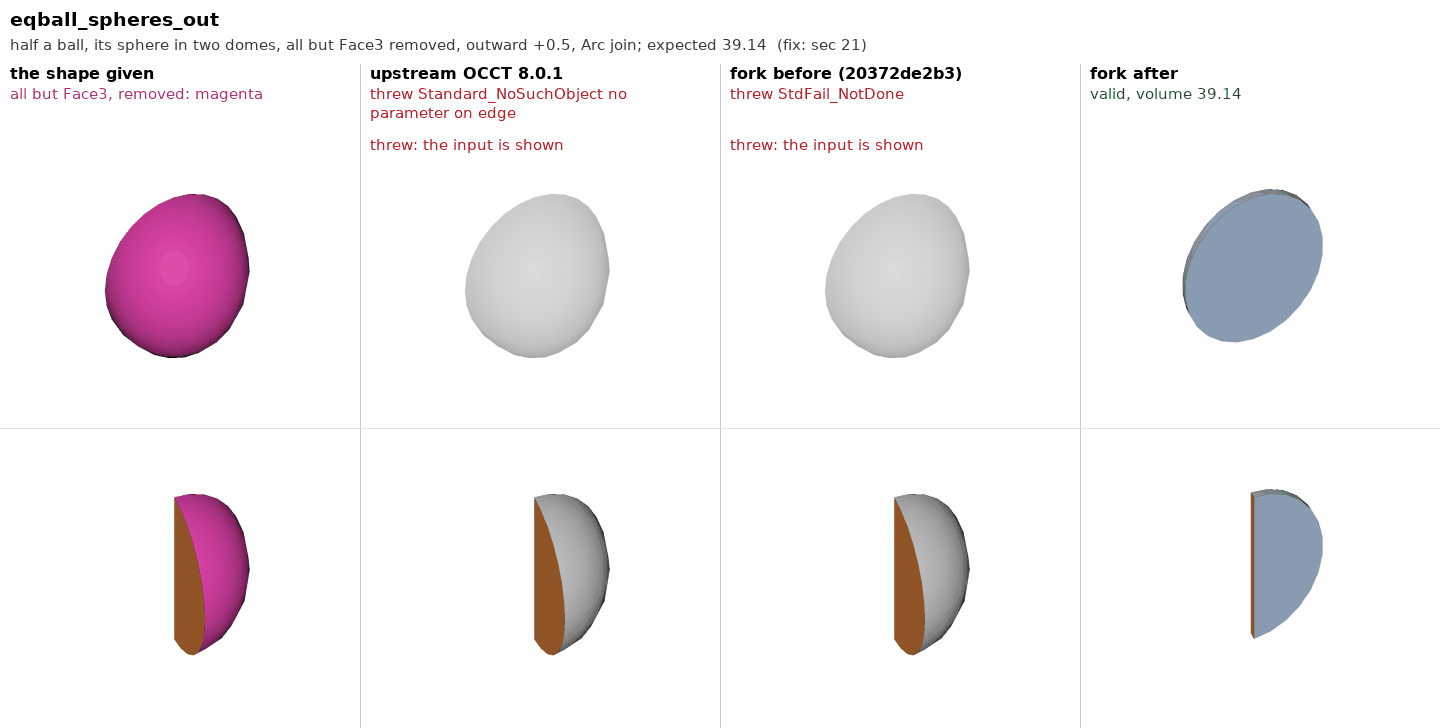
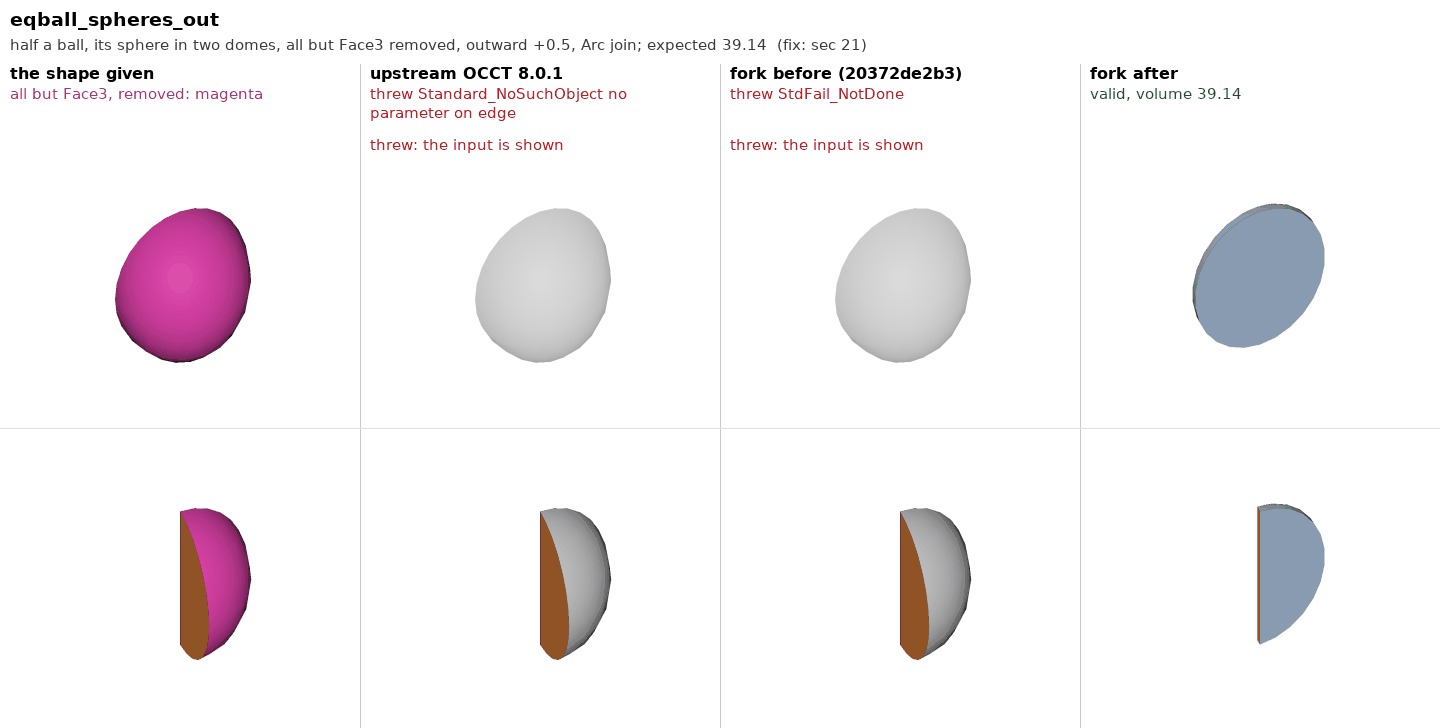
Tests: thickness pictures and write-up of sec 22
models/Thickness.md "Sec 22": the hand value of the 240 degree wedge
inward; the rest of the ball (631700cbf8); a sphere face on the meridians
of another axis turned onto it (c747dd8371); an edge in pieces joined
first (addc5e58fd), there since the chain was ported -- 361 runs of 824
over twelve shapes with a vertex at the middle of an edge; a result that
runs off refused (50e7977409); and what is found but not fixed: the half
ball with one of its two sphere faces removed, refused every way, waits
for a rule for the wall at a tangent edge on a sphere.

Twelve pictures in stages s22a, s22b and s22c: 146 pictured, upstream
right on 39 (three of the new: the box and the cylinder with a vertex on
an edge). Other pictures of sec 21 drawn again: their after column comes
through the joined edges now, the same volumes.

Claude-Session: https://claude.ai/code/session_01RRwvFxBuXePWegBsRhSaqG

diff --git a/thickness/pictures/cases.py b/thickness/pictures/cases.py
@@ -36,6 +36,9 @@ STAGES = {
     "s21a": ("76691d6f87", "21"),
     "s21b": ("b45cff22c5", "21"),
     "s21c": ("20372de2b3", "21"),
+    "s22a": ("1e6f5a464c", "22"),
+    "s22b": ("631700cbf8", "22"),
+    "s22c": ("c747dd8371", "22"),
 }
 # Upstream: the eleven files the fix chain touches, at the fork's base.
 UPSTREAM = ("91be8c4c71", [
@@ -91,6 +94,24 @@ def _halfball(cut=None):
     else:
         return b
     return b.generalFuse([e])[0].Solids[0]
+
+
+def _split_at(shape, i):
+    # The shape with a vertex at the middle of its edge i (0-based).
+    e = shape.Edges[i]
+    return shape.generalFuse([Part.Vertex(e.valueAt((e.FirstParameter + e.LastParameter) / 2))])[0].Solids[0]
+
+
+def _axis_wedge(ang):
+    # A ball made on an axis through the middle of the wedge it is cut to: its
+    # face has a seam and a pole inside. Face1 is the sphere.
+    mid = math.radians(ang / 2.0)
+    m = V(math.cos(mid), math.sin(mid), 0)
+    gap = Part.makeCylinder(10, 20, V(0, 0, -10), V(0, 0, 1), 360 - ang)
+    gap.rotate(V(), V(0, 0, 1), ang)
+    w = Part.makeSphere(5, V(), m).cut(gap).Solids[0]
+    assert w.Faces[0].Surface.__class__.__name__ == "Sphere"
+    return w
 
 
 def _dome2(line=False):
@@ -149,6 +170,14 @@ SHAPES = {
     "dome2f": lambda: _dome2(True),
     "halfball1": lambda: _halfball().removeSplitter(),
     "cutball": lambda: Part.makeSphere(5).cut(Part.makeBox(20, 20, 20, V(-10, -20, -10))),
+    "ball270": lambda: Part.makeSphere(5, V(), V(0, 0, 1), -90, 90, 270),
+    "ball240": lambda: Part.makeSphere(5, V(), V(0, 0, 1), -90, 90, 240),
+    "ball150": lambda: Part.makeSphere(5, V(), V(0, 0, 1), -90, 90, 150),
+    "boxsplit": lambda: _split_at(Part.makeBox(10, 8, 6), 0),
+    "cylseam": lambda: _split_at(Part.makeCylinder(4, 6), 1),
+    "ball270split": lambda: Part.makeSphere(5, V(), V(0, 0, 1), -90, 90, 270).generalFuse(
+        [Part.Vertex(V(5, 0, 0))])[0].Solids[0],
+    "axiswedge270": lambda: _axis_wedge(270),
 }
 # name: (stage, shape, face or list of faces removed, value, inter, join, reference volume)
 CASES = {
@@ -286,6 +315,18 @@ CASES = {
     "luneball_flat_join_in": ("s21c", "luneball", 3, -0.5, False, 2, 89.0272),
     "eqball_spheres_out": ("s21c", "eqball", [1, 2], +0.5, False, 0, 39.1390),
     "eqball_spheres_join_out": ("s21c", "eqball", [1, 2], +0.5, False, 2, 39.1390),
+    "ball270_sphere_out": ("s22a", "ball270", 1, +0.5, False, 0, 36.6474),
+    "ball270_sphere_join_out": ("s22a", "ball270", 1, +0.5, False, 2, 36.6474),
+    "ball240_sphere_join_out": ("s22a", "ball240", 1, +0.5, False, 2, 37.6996),
+    "ball150_sphere_out": ("s22a", "ball150", 1, +0.5, False, 0, 39.7919),
+    "dome2f_flat_join_out": ("s22b", "dome2f", 2, +0.5, False, 2, 113.0909),
+    "dome2f_flat_join_in": ("s22b", "dome2f", 2, -0.5, False, 2, 89.0272),
+    "boxsplit_side_out": ("s22c", "boxsplit", 1, +0.5, False, 0, 177.6136),
+    "boxsplit_side_in": ("s22c", "boxsplit", 1, -0.5, False, 0, 147.5),
+    "cylseam_top_out": ("s22c", "cylseam", 2, +0.5, False, 0, 110.4400),
+    "ball270split_sphere_join_in": ("s22c", "ball270split", 1, -0.5, False, 2, 41.6307),
+    "axiswedge270_sphere_join_in": ("s22c", "axiswedge270", 1, -0.5, False, 2, 41.6307),
+    "axiswedge270_sphere_out": ("s22c", "axiswedge270", 1, +0.5, False, 0, 36.6474),
 }
 # Cases whose right result is more than one shell: the holed cone's top, its
 # cavity sealed below the removed face (a skin and a void).

diff --git a/thickness/pictures/mkpage.py b/thickness/pictures/mkpage.py
@@ -43,6 +43,7 @@ SUMMARY = {
     19: "Three quarters of a dome (the axis turn stopped at half a turn; the old pole's edge kept two meridians apart; a meridian's piece past the pole kept a pcurve off the sphere); the piece of sphere where three tubes meet at a pole; a face extended to the far crossing; and the sphere itself removed, its wall built on a turned twin of the removed face. At twice the thickness one case had been a valid solid on the wrong side.",
     20: "Half a ball cut through both its poles: its sphere is cut in two first, along the equator where it stays and along a meridian where it is removed. And shapes under a location or turned in space, which gave other results than plain: a seam checked without its location, a cone's apex left where it was, a corner arc taken from the wrong section, a whole circle of section that lost the piece its own vertex lies in.",
     21: "A dome whose rim is in two arcs was broken since the chain was ported, upstream right: the face is now walked in (u, v) with its seam, and its flat's two arcs no longer both become one half circle. The half ball with one disc, as a refine or a cut leaves it, is put on a sphere turned onto its middle, which makes it that dome; and a half ball with its sphere in two faces has them joined first.",
+    22: "A ball wedge's sphere removed outward is the rest of the ball's thick solid inward. A sphere face whose outline lies on the meridians of another axis is put on that axis: the dome with its flat in two halves, a ball wedge made on an axis through its face. And an edge cut in two by a vertex nothing else meets is joined first: since the chain was ported it broke the faces beside it, 361 runs of 824, a box among them where upstream is right.",
 }
 
 TAGLINE = "Every pictured case of the OCCT fork's thickness suite, each run three ways"

diff --git a/thickness/pictures/compose.py b/thickness/pictures/compose.py
@@ -34,7 +34,12 @@ NAMES = {"cyl": "cylinder", "ann": "cylinder with a through hole", "ell": "ellip
          "dome2": "half a sphere, its rim in two arcs",
          "dome2f": "half a sphere, its rim in two arcs and its flat in two halves",
          "halfball1": "half a ball cut through both poles, refined: one disc",
-         "cutball": "a ball cut in half by a box: a compound of one solid"}
+         "cutball": "a ball cut in half by a box: a compound of one solid",
+         "ball270": "a ball wedge of 270 degrees, pole to pole", "ball240": "a ball wedge of 240 degrees",
+         "ball150": "a ball wedge of 150 degrees", "boxsplit": "a box with a vertex on an edge",
+         "cylseam": "a cylinder with a vertex on its seam",
+         "ball270split": "the 270 degree ball wedge with a vertex on a meridian",
+         "axiswedge270": "a 270 degree wedge of a ball made on an axis through its face"}
 JOIN = {0: "Arc join", 2: "Intersection join"}
 def status(d):
     if d["ok"] and d.get("refused"):

diff --git a/thickness/models/Thickness.md b/thickness/models/Thickness.md
@@ -21,7 +21,7 @@ the only write-up.
 Where things are:
 
 - The fork's suite: `tests/fork/thickness/run_tests.py` (`FreeCADCmd
-  tests/fork/thickness/run_tests.py`; PASS 277, XFAIL 8) and its `README.md`, the
+  tests/fork/thickness/run_tests.py`; PASS 326) and its `README.md`, the
   case-by-case reference.
 - The pictures: `pictures/<case>.png` beside this page, one per case of the
   suite that a fix turned from failing to passing.
@@ -116,21 +116,23 @@ a mode: 204. From that section on the sweep is also run with every solid
 under a location and with its geometry turned in space (`SWEEP_PLACE`): the
 same 928 volumes, all right.
 
-Of the 134 pictured cases, 36 are ones upstream gets right and the fork had
+Of the 146 pictured cases, 39 are ones upstream gets right and the fork had
 broken -- the chain's casualties (sec 2, 3, part of 4, the holed
 cone's top with intersection on, sec 10, a short box's and a box's bottom
 alone, sec 11 and 12, a pocket's open shell, sec 13, the
 input left inside out, sec 14, the faces closed at a pole, sec
-16, half of a cap turned in space, its sphere removed, sec 20, and
-a dome with its rim in two arcs, sec 21).
-The other 98 fail upstream too: the fork
+16, half of a cap turned in space, its sphere removed, sec 20,
+a dome with its rim in two arcs, sec 21, and an edge in pieces, sec 22).
+The other 107 fail upstream too: the fork
 now does better than upstream there.
 
 Nothing in the suite fails. Half a ball cut through both its poles, which
 sec 19 left open, is answered in sec 20, and as a refine or a cut
 leaves it, or with its sphere in two faces, in sec 21, which marks
 eight cases known broken: ball wedges on more than half a turn with the
-sphere removed, and a dome's half flat with the Intersection join. Every run of the sweep in scope is right. Out of scope, sec 11 answers the faces left in pieces where each
+sphere removed, and a dome's half flat with the Intersection join. Sec 22
+answers the eight, and an edge in pieces, which broke the faces beside it
+in 361 of 824 runs. Every run of the sweep in scope is right. Out of scope, sec 11 answers the faces left in pieces where each
 piece is a plain plate or disc, with either join (sec 12), and sec 13
 the pieces that are pockets and bosses: every one checks by hand. The one
 refusal left in the sweep is the torus's face, and it is right: with its one
@@ -1278,7 +1280,7 @@ do. Not chased.
 ![eqball_spheres_join_out](pictures/eqball_spheres_join_out.png)
 
 **Known broken**, each marked in the suite with the volume it should give
-(8 cases):
+(8 cases, all answered in sec 22):
 
 - A ball wedge from pole to pole on more than half a turn, its sphere
   removed outward (270 and 240 degrees, both joins: three lunes, refused);
@@ -1304,7 +1306,164 @@ no circle of latitude. Its sphere removed is wrong all eight ways tried on
 each: invalid or refused, and inward with the Intersection join a valid
 solid of 264.29 for 41.6307 (263.24 for 40.5784 on 240 degrees). It is what
 turning the wedges of the list above onto their middle would make of them,
-so that is no way to answer those as it stands.
+so that is no way to answer those as it stands. (Sec 22 answers it the
+other way round: the face is turned onto the wedge's own axis.)
+
+### Sec 22: the rest of the ball, a sphere on another axis, an edge in pieces
+
+Sec 21 left eight cases known broken and three things found beside them.
+The eight are answered, and two of the three; a hand value was wrong; and
+looking at why the third of them was wrong turned up a fault far wider than
+any of them, there since the chain was ported.
+
+**A hand value** (`sweep/polehand.py`). Of the eight, the ball wedge of 240
+degrees with its sphere removed inward and the Arc join gave 40.4447 for
+39.9613. The solid was right. Inward the skin is the solid less the points
+further than the thickness from where the solid is not; for a wedge on more
+than half a turn that is the convex wedge that is missing, and the script
+took the distance to it for `hypot` of the distances to its two planes. That
+is the distance to the axis only where the planes are square, at 270
+degrees. At 240 the skin is the two slabs and a sixth of a tube round the
+axis: 39.14 + 1.31 = 40.45. The table `polehand.txt` does not change -- its
+one reflex wedge is of 270 degrees.
+
+**The rest of the ball** (`631700cbf8`, `BRepOffset_MakeOffset`,
+`MakeThickSolidOfSplit`, `MakeGapOfBall`). A ball wedge from pole to pole on
+more than half a turn, its sphere removed outward, was cut into lunes of a
+quarter turn at the most (sec 20) and refused. The wall lies in the gap
+between the flats: on 270 degrees it is the missing quarter of the sphere
+with a hole in it where the flats' offsets cross -- a face beside none of
+the three lunes, and the image of none of them. On 150 degrees with the Arc
+join the wall holds both poles and a tube round the axis, and was refused
+too.
+
+With every face of one sphere removed and the solid inside its ball, the
+thick solid outward is what lies in the ball, off the solid, within the
+thickness of the solid's other faces. That is the thick solid inward of the
+rest of the ball -- the ball less the solid -- with its faces on the sphere
+removed. The joins answer each other: outward the Arc join rounds a convex
+edge and inward a concave one, and an edge of the solid is the other kind on
+the rest of the ball. The rest is a cut of a ball made with its seam in the
+middle of the faces the solid has, so that the cut takes the seam away; the
+two volumes must make the ball's. Its images come back under the solid's
+faces and edges, the faces on the sphere under the removed face. Where the
+rest gives no valid answer, the face is cut into lunes as before.
+
+36.6474 on 270 degrees and 37.6996 on 240 with either join (a 90 and a 120
+degree wedge inward); 39.7919 and 39.8071 on 150 degrees (a 210 degree wedge
+inward). Plain, under a location and turned in space.
+
+![ball270_sphere_out](pictures/ball270_sphere_out.png)
+
+![ball270_sphere_join_out](pictures/ball270_sphere_join_out.png)
+
+![ball240_sphere_join_out](pictures/ball240_sphere_join_out.png)
+
+![ball150_sphere_out](pictures/ball150_sphere_out.png)
+
+**A sphere on the meridians of another axis** (`c747dd8371`,
+`TurnSphereOntoMeridians`). Two shapes have a sphere face with its own pole
+inside, a seam through it, and its outline on two half great circles
+between the same two points: meridians of another axis.
+
+- The dome with its rim in two arcs and its flat in two halves: the half
+  ball's sphere, put the other way round. One half removed with the
+  Intersection join was refused (sec 21): the dome had to grow below its rim
+  beside the wall closing the edge between the halves, and the wall came out
+  outside its band. The half ball gets this right (sec 20).
+- A ball wedge made on an axis through the middle of its face (sec 21,
+  "found beside these"): wrong every way.
+
+The face is put on the same sphere with its poles at those two points: it
+runs from pole to pole between the two meridians, which is the ball wedge's
+face and the half ball's, and what follows in `MakeThickSolidOfSplit` knows
+it. The axis is a pair of the outline's vertices across the sphere from each
+other, square to the planes of all the outline's edges -- not the normals of
+the edges alone: the dome's two arcs lie on one great circle. Which side of
+the two meridians the face lies on is found by classifying two points off
+the middle and off the equator; the face's own pole sat on the middle of
+the wedge and was neither in nor out. A side of the outline may be in more
+than one edge. The edges take a pcurve on the turned sphere as a cache, as
+in sec 21; the poles' degenerated edges are new. A dome with one face beside
+its rim is left to the loops, which know it (sec 21).
+
+113.0909 and 89.0272, either half; with the Arc join, turned too now,
+111.6001 and 88.5482 as before.
+
+![dome2f_flat_join_out](pictures/dome2f_flat_join_out.png)
+
+![dome2f_flat_join_in](pictures/dome2f_flat_join_in.png)
+
+**An edge in pieces** (`addc5e58fd`). The ball wedge made on an axis through
+its face, once turned, was still wrong all four ways. Its seam had ended on
+one of the wedge's meridians and cut it in two, and the turned face had no
+seam: what was left is the ball wedge with a vertex at the middle of a
+meridian, and that was wrong all four ways too -- `Part.makeSphere(5, ..,
+-90, 90, 270)` fused with a vertex at (5, 0, 0).
+
+So a vertex was put at the middle of each edge in turn of twelve shapes --
+ball wedges, domes, a box, a cylinder, a cone -- and the thickness run with
+every face removed, both ways, both joins, against the shape as made: 361
+runs of 824 came out different. A box with a vertex on an edge, a face
+beside it removed with the Arc join, was refused, or came back as the box
+itself, 480; upstream is right with the Arc join, and with the
+Intersection join gives the box back as a valid solid. The libraries of
+every stage back to sec 2's "before" fail it as well: since the chain was
+ported.
+
+The offsets of the two pieces lie on one curve, and each is stretched far
+past its ends (`ContextIntByArc`), over the other: two sections of the same
+line, and the loops on the removed face closed wires of no area between
+them. Sharing one stretched edge between the pieces put the box right with
+the Arc join but not with the Intersection join, whose sections are trimmed
+elsewhere, and broke the cylinder, whose sections are whole circles.
+
+A vertex that only cuts an edge in two -- its two edges between the same two
+faces, nothing else meeting it -- tells the thickness nothing. The thick
+solid is made of the solid with such pieces joined
+(`ShapeUpgrade_UnifySameDomain`, edges only) by an object of its own, and
+the images of a joined edge come back under each of its pieces. A seam in
+two pieces is joined too, and the cylinder's caps are right that way; but a
+joined seam is no primitive's seam, and the cylinder's side removed outward
+with the Arc join was refused once joined. Where the joined solid gives no
+valid answer, the solid is taken as it came. All 824 runs are right.
+
+The ball wedge on an axis through its face is right in all 24 runs tried:
+270, 240 and 150 degrees, both ways, both joins, the ball turned about its
+axis or not; inward with the Intersection join 41.6307, where it was a
+valid solid of 264.29.
+
+![boxsplit_side_out](pictures/boxsplit_side_out.png)
+
+![boxsplit_side_in](pictures/boxsplit_side_in.png)
+
+![cylseam_top_out](pictures/cylseam_top_out.png)
+
+![ball270split_sphere_join_in](pictures/ball270split_sphere_join_in.png)
+
+![axiswedge270_sphere_join_in](pictures/axiswedge270_sphere_join_in.png)
+
+![axiswedge270_sphere_out](pictures/axiswedge270_sphere_out.png)
+
+**A result that runs off** (`50e7977409`, `MakeThickSolid`). The half ball
+with its sphere in two domes, one dome removed outward with the Arc join,
+was a valid solid of a volume of -1.3e100: two planes of it unbounded,
+1e100 across. A result that reaches past the shape's box grown by a
+thousand times the box's diagonal and the thickness is refused now. The
+skin lies within the thickness of the shape but for a sharp corner of the
+Intersection join, t / sin(a / 2) past an edge of angle a -- 115
+thicknesses at a degree; the room is for any of them.
+
+**Found beside these, not fixed, and not in the suite.** The half ball
+with its sphere in two domes and one of them removed is refused every way
+now, and so is the half ball in two lunes with one removed (sec 21). The
+removed face meets the one that stays along a tangent edge, both on one
+sphere, and the wall that closes that edge has no rule here yet: for two
+faces in one plane it lies a thickness past the edge with the Intersection
+join and is a tube round the edge with the Arc join (sec 6, and
+`sweep/polehand.py`), and on a sphere its place is not settled, so no hand
+value is either. The seam crossing at a negative parameter that sec 21
+worked round is still worked round.
 
 ## The captured models
 
